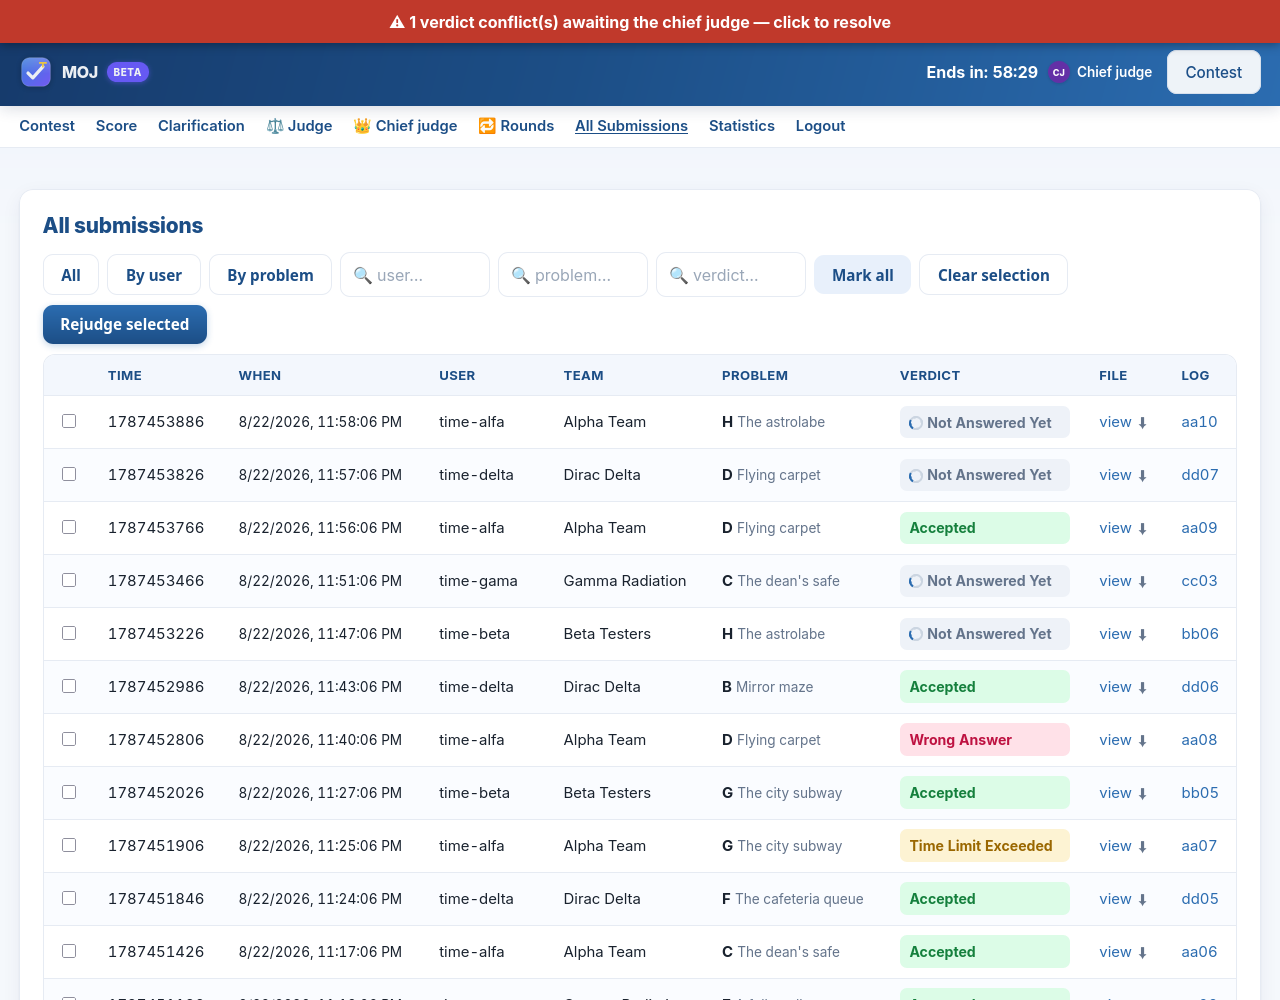
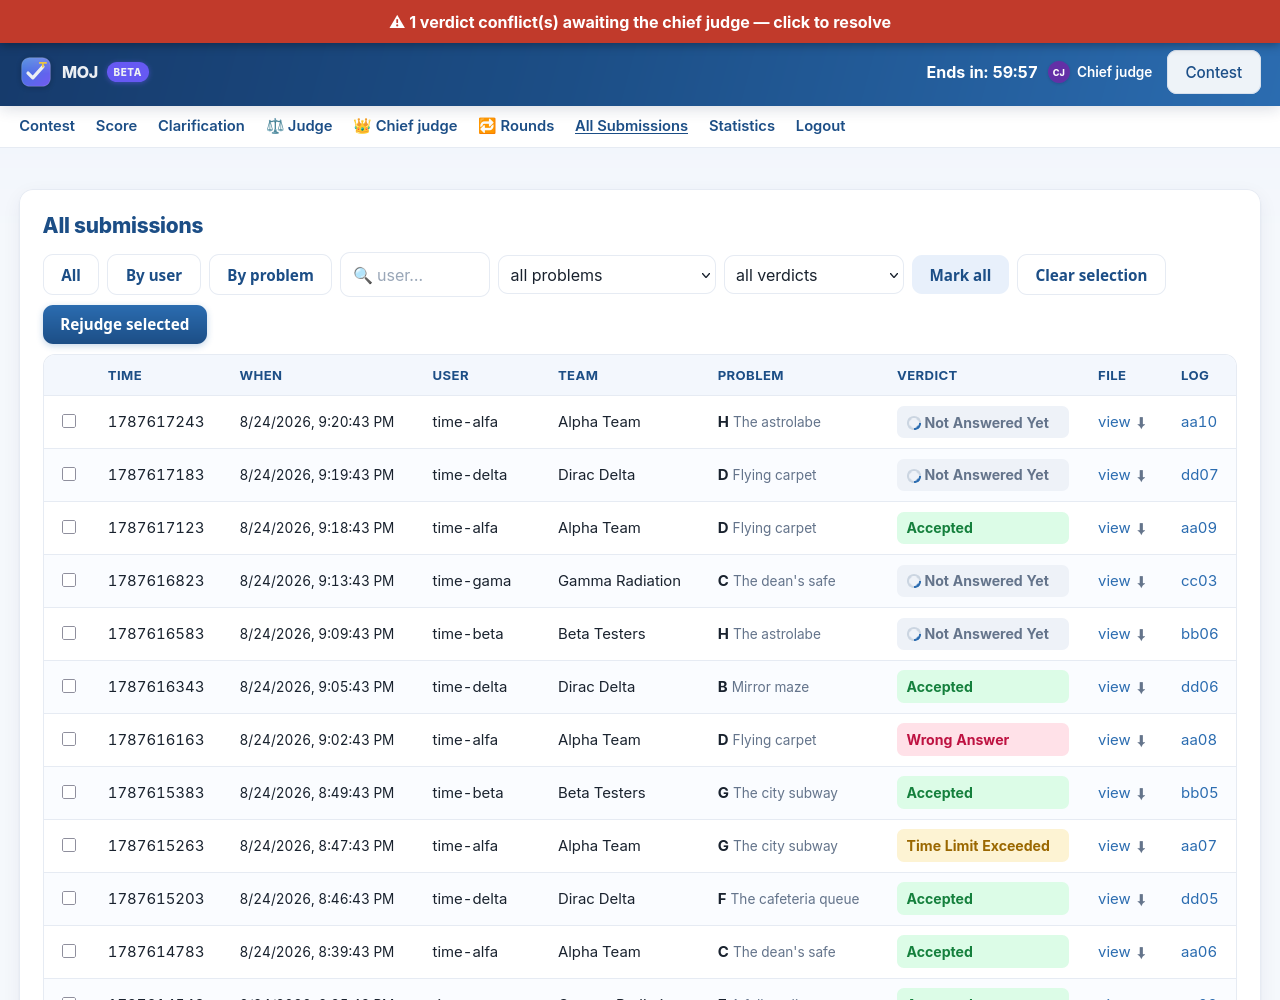
web: filtro por lista nas submissões, e o log volta a rolar até o caso
Dois relatos de juiz, os dois pequenos e os dois reais.

1) "quando você filtra por problema, digitar a letra dá match com todos os
   títulos que têm essa letra". O filtro casava com `includes` contra o ID
   CANÔNICO DO PACOTE (`apc#soma-dos-digitos`), e o slug costuma ser o título:
   digitar "a" trazia a letra A e metade da prova. Agora problema e veredicto são
   `<select>` com casamento EXATO — o de problema sai do /contest/problems que a
   página já carregava (letra · título), o de veredicto sai dos valores que
   aparecem no feed, agrupados pelo head canônico (Accepted,100p e Accepted,PE na
   mesma opção). O usuário segue busca livre, que é nome.

2) "os quadradinhos do log eram pra scrollar até o caso de teste, mas está
   voltando pra página de submissão". O report.html do mojtools sempre esteve
   certo; quem quebrava era a exibição: `<iframe srcdoc>` herda o BASE URL do PAI,
   então `href="#test-3-in"` resolvia para a página de submissão e virava
   NAVEGAÇÃO. Estava em quatro telas porque a rotina foi copiada — e duas outras
   telas já faziam certo, com blob.

   Agora existe uma implementação só: `openHtmlReport(html)` em
   shared/submission-links.js (blob + aba + revoke). Passam por ela as seis:
   juiz/chefe/review/stats (pelo logLink), o competidor, todas as submissões, o
   treino e o cartão de calibração do editor. A prévia INLINE da fila do treino
   segue com srcdoc (não abre aba) e ganhou um "abrir em aba" ao lado.
[…]

diff --git a/web/contest/allsubmissions/allsubmissions.js b/web/contest/allsubmissions/allsubmissions.js
@@ -8,6 +8,7 @@ import { status } from '/shared/auth.js';
 import { el, verdictClass, isPending, fmtDate } from '/shared/ui.js';
 import { T } from '/shared/i18n.js';
 import { mountChrome } from '/lib/contest-chrome.js';
+import { openHtmlReport } from '/shared/submission-links.js';
 
 const qs = new URLSearchParams(location.search);
 const CONTEST = (window.__MOJ_CONTEST || qs.get('c') || '');
@@ -46,33 +47,58 @@ async function openLogAuthed(path) {
     w.document.body.append(pre); w.document.close();
   } catch { alert(T('Falha ao abrir o log.', 'Failed to open the log.')); }
 }
-// abre o report.html (auto-contido) do julgamento num iframe sandboxed (HTML/CSS sim, JS não).
+// abre o report.html do julgamento numa aba nova (openHtmlReport: blob, nunca srcdoc — é o que
+// faz as âncoras dos casos de teste rolarem em vez de navegar; ver shared/submission-links.js).
 async function openReportAuthed(path) {
   try {
     const r = await fetch('/api/v1' + path, { headers: { 'Authorization': 'Bearer ' + getToken(CONTEST) } });
-    const html = await r.text();
-    const w = window.open('', '_blank');
-    if (!w) { alert(T('Permita pop-ups para ver o report.', 'Allow pop-ups to view the report.')); return; }
-    w.document.title = 'Report'; w.document.body.style.margin = '0';
-    const ifr = w.document.createElement('iframe');
-    ifr.setAttribute('sandbox', '');
-    ifr.srcdoc = html;
-    ifr.style.cssText = 'position:fixed;inset:0;border:0;width:100%;height:100%';
-    w.document.body.append(ifr);
+    openHtmlReport(await r.text());
   } catch { alert(T('Falha ao abrir o report.', 'Failed to open the report.')); }
 }
 
 function filteredSubs() {
   const fuEl = document.getElementById('fUser'); // removido no modo anônimo
   const fu = fuEl ? fuEl.value.trim().toLowerCase() : '';
-  const fp = document.getElementById('fProblem').value.trim().toLowerCase();
-  const fv = document.getElementById('fVerdict').value.trim().toLowerCase();
+  // ⚠ Problema e veredicto casam por IGUALDADE, não por `includes`. Eram campos de texto que
+  // casavam contra o id canônico do pacote (`apc#soma-dos-digitos`), então digitar "a" trazia a
+  // letra A e metade da prova junto — relato de juiz, 2026-08-24. Hoje são listas: o valor vem
+  // da própria opção, e não há o que digitar errado. O USUÁRIO segue busca livre (é nome).
+  const fp = document.getElementById('fProblem').value;
+  const fv = document.getElementById('fVerdict').value;
   return subs.filter(s => {
     if (fu && !(s.username || '').toLowerCase().includes(fu)) return false;
-    if (fp) { const sn = shortOf(s.problem_id).toLowerCase(); if (!sn.includes(fp) && !(s.problem_id || '').toLowerCase().includes(fp)) return false; }
-    if (fv && !(s.verdict || '').toLowerCase().includes(fv)) return false;
+    if (fp && s.problem_id !== fp) return false;
+    if (fv && vHead(s.verdict) !== fv) return false;
     return true;
   });
+}
+
+// head do veredicto: `Accepted,100p` e `Accepted,PE` viram "Accepted"; `Wrong,60p. Pontos | 30 |`
+// vira "Wrong". É o mesmo corte que o `by_verdict` das métricas usa (split na vírgula/ponto).
+function vHead(v) { return String(v || '').split(',')[0].split('.')[0].trim(); }
+
+// Repovoa os dois seletores preservando a escolha atual (o feed recarrega a cada poll).
+// O de problema sai do `/contest/problems` que a página já carrega (letra + título, na ordem da
+// prova); o de veredicto, dos valores que REALMENTE aparecem no feed — assim veredicto legado
+// ou `Judge Error` entram sozinhos, sem lista fixa para manter.
+function fillFilters() {
+  const ps = document.getElementById('fProblem'), vs = document.getElementById('fVerdict');
+  if (ps) {
+    const keep = ps.value;
+    ps.innerHTML = '';
+    ps.append(el('option', { value: '' }, T('todos os problemas', 'all problems')));
+    problems.forEach(p => ps.append(el('option', { value: p.problem_id },
+      (p.short_name || p.problem_id) + (p.full_name ? ' · ' + p.full_name : ''))));
+    ps.value = keep;
+  }
+  if (vs) {
+    const keep = vs.value;
+    const vs_ = [...new Set(subs.map(s => vHead(s.verdict)).filter(Boolean))].sort();
+    vs.innerHTML = '';
+    vs.append(el('option', { value: '' }, T('todos os veredictos', 'all verdicts')));
+    vs_.forEach(v => vs.append(el('option', { value: v }, v)));
+    vs.value = keep;
+  }
 }
 
 function rowTable(items) {
@@ -155,6 +181,7 @@ async function loadSubs() {
   }
   subs = txt.split('\n').map(s => s.trim()).filter(Boolean).map(parseLine).filter(Boolean)
     .sort((a, b) => Number(b.epoch) - Number(a.epoch));
+  fillFilters();   // o feed recarrega: repovoa as listas preservando a escolha
   render();
 }
 
@@ -185,7 +212,8 @@ async function boot() {
   } catch {}
 
   document.querySelectorAll('[data-group]').forEach(btn => btn.addEventListener('click', () => { groupBy = btn.dataset.group; render(); }));
-  ['fUser', 'fProblem', 'fVerdict'].forEach(id => { const e = document.getElementById(id); if (e) e.addEventListener('input', render); });
+  const fuE = document.getElementById('fUser'); if (fuE) fuE.addEventListener('input', render);
+  ['fProblem', 'fVerdict'].forEach(id => { const e = document.getElementById(id); if (e) e.addEventListener('change', render); });
   if (FULL) {
     document.getElementById('markAll').addEventListener('click', () => { filteredSubs().forEach(s => selected.add(s.submission_id)); render(); });
     const clearBtn = el('button', { class: 'btn ghost', onclick: () => { selected.clear(); render(); } }, T('Desmarcar todos', 'Clear selection'));

diff --git a/web/shared/submission-links.js b/web/shared/submission-links.js
@@ -18,16 +18,28 @@ export async function downloadAuthed(contest, path, filename) {
   } catch { alert(T('Falha ao baixar.', 'Download failed.')); }
 }
 
-// abre o report HTML autenticado numa aba nova, isolado num <iframe sandbox> (sem scripts).
+// openHtmlReport(html) — abre um relatório HTML AUTO-CONTIDO (o report.html do mojtools, o de
+// calibração, o de test-run) numa aba nova, por **blob URL**.
+//
+// ⚠ NUNCA use `<iframe srcdoc>` para isto. Um srcdoc tem URL `about:srcdoc` e herda o BASE URL do
+// PAI: um `href="#test-3-in"` resolve para "<a-página-de-onde-você-veio>#test-3-in" e vira
+// NAVEGAÇÃO, não rolagem. Era o que fazia os quadradinhos do log "voltarem para a página de
+// submissão" (relato de juiz, 2026-08-24) — em quatro telas, porque a rotina foi copiada. Com
+// blob o documento ganha URL própria e a âncora volta a ser âncora.
+// Isolar não é problema: o report é gerado sem JS e traz `default-src 'none'` no próprio <head>.
+export function openHtmlReport(html) {
+  const url = URL.createObjectURL(new Blob([html], { type: 'text/html' }));
+  const w = window.open(url, '_blank');
+  if (!w) { alert(T('Permita pop-ups para ver o relatório.', 'Allow pop-ups to view the report.')); URL.revokeObjectURL(url); return null; }
+  setTimeout(() => URL.revokeObjectURL(url), 60000);
+  return w;
+}
+
+// abre o report HTML AUTENTICADO (busca com Bearer — o nginx não recebe o token por querystring).
 export async function openReportAuthed(contest, path) {
   try {
     const r = await fetch('/api/v1' + path, { headers: { Authorization: 'Bearer ' + getToken(contest) } });
-    const html = await r.text();
-    const w = window.open('', '_blank');
-    if (!w) { alert(T('Permita pop-ups para ver o log.', 'Allow pop-ups to view the log.')); return; }
-    w.document.title = 'Log'; w.document.body.style.margin = '0';
-    const ifr = w.document.createElement('iframe'); ifr.setAttribute('sandbox', ''); ifr.srcdoc = html;
-    ifr.style.cssText = 'position:fixed;inset:0;border:0;width:100%;height:100%'; w.document.body.append(ifr);
+    openHtmlReport(await r.text());
   } catch { alert(T('Falha ao abrir o log.', 'Failed to open the log.')); }
 }
 

diff --git a/web/contest/contest.js b/web/contest/contest.js
@@ -7,6 +7,7 @@ import { createEditor } from '/shared/editor.js';
 import { LANGUAGES, DEFAULT_SUBMIT_LANGUAGES, langById, extCanon } from '/shared/languages.js';
 import { T, setLang, getLang } from '/shared/i18n.js';
 import { navLabel } from '/shared/nav-i18n.js';
+import { openHtmlReport } from '/shared/submission-links.js';
 import { balloonColorHex, balloonSVG, balloonEdge, balloonTint } from '/contest/score/score-colors.js';
 
 const qs = new URLSearchParams(location.search);
@@ -131,21 +132,13 @@ async function openLogAuthed(path) {
   } catch { alert(T('Falha ao abrir o log.', 'Failed to open log.')); }
 }
 
-// abre o report.html (auto-contido) do julgamento num iframe sandboxed: renderiza
-// HTML/CSS mas bloqueia JS (defesa em profundidade — o conteúdo já é escapado na origem).
+// abre o report.html do julgamento numa aba nova (openHtmlReport: blob, nunca srcdoc — é o que
+// faz as âncoras dos casos de teste rolarem em vez de navegar; ver shared/submission-links.js).
 async function openReportAuthed(path) {
   try {
     const r = await fetch('/api/v1' + path, { headers: { 'Authorization': 'Bearer ' + getToken(CONTEST) } });
-    const html = await r.text();
-    const w = window.open('', '_blank');
-    if (!w) { alert(T('Permita pop-ups para ver o report.', 'Allow pop-ups to view the report.')); return; }
-    w.document.title = 'Report'; w.document.body.style.margin = '0';
-    const ifr = w.document.createElement('iframe');
-    ifr.setAttribute('sandbox', '');
-    ifr.srcdoc = html;
-    ifr.style.cssText = 'position:fixed;inset:0;border:0;width:100%;height:100%';
-    w.document.body.append(ifr);
-  } catch { alert(T('Falha ao abrir o report.', 'Failed to open report.')); }
+    openHtmlReport(await r.text());
+  } catch { alert(T('Falha ao abrir o report.', 'Failed to open the report.')); }
 }
 
 // ============================================================================

diff --git a/web/treino/admin/admin.js b/web/treino/admin/admin.js
@@ -14,6 +14,7 @@ import { apiGet, apiPost, getToken } from '/shared/api.js';
 import { status } from '/shared/auth.js';
 import { el, fmtDate, avatarEl, renderAuthArea } from '/shared/ui.js';
 import { barChart, hBarChart, lineChart, heatmap, heatmapGrid } from '/lib/charts.js';
+import { openHtmlReport } from '/shared/submission-links.js';
 import { T } from '/shared/i18n.js';
 
 const CONTEST = 'treino';
@@ -503,8 +504,14 @@ function makeQueueTab() {
                       T('estado: ', 'state: ') + stLabel(d.state)
                       + T(' · fonte: ', ' · source: ') + (d.has_source ? d.source_bytes + ' B' : T('AUSENTE', 'MISSING'))
                       + T(' · mojlog: ', ' · mojlog: ') + (d.mojlog_bytes ? d.mojlog_bytes + ' B' : T('não existe', 'none'))),
+                    // prévia embutida (sandbox: sem JS). ⚠ as âncoras dos casos de teste NÃO
+                    // rolam aqui — num srcdoc o `#alvo` resolve contra a URL do pai; para isso
+                    // existe o "abrir em aba", que usa blob (shared/submission-links.js).
                     d.mojlog ? el('iframe', { style: 'width:100%;height:16rem;border:1px solid var(--line);border-radius:8px;background:#fff',
-                      sandbox: '', srcdoc: d.mojlog }) : '');
+                      sandbox: '', srcdoc: d.mojlog }) : '',
+                    d.mojlog ? el('div', { class: 'small', style: 'margin-top:.25rem' },
+                      el('a', { href: '#', onclick: (ev) => { ev.preventDefault(); openHtmlReport(d.mojlog); } },
+                        T('abrir em aba (com as âncoras funcionando) →', 'open in a tab (anchors working) →'))) : '');
                   logBox.style.display = '';
                 } catch (e) { msg.textContent = e.message || T('falha', 'failed'); }
               } }, '📜'),

diff --git a/web/treino/problema/problema.js b/web/treino/problema/problema.js
@@ -4,6 +4,7 @@ import { fileToBase64, textToBase64, status } from '/shared/auth.js';
 import { el, verdictClass, isPending, fmtDate, renderAuthArea, resumoText } from '/shared/ui.js';
 import { createEditor } from '/shared/editor.js';
 import { LANGUAGES, DEFAULT_SUBMIT_LANGUAGES, langById, extCanon } from '/shared/languages.js';
+import { openHtmlReport } from '/shared/submission-links.js';
 import { T } from '/shared/i18n.js';
 
 const CONTEST = 'treino';
@@ -143,18 +144,12 @@ async function downloadAuthed(path, filename) {
   document.body.append(a); a.click(); a.remove();
 }
 
-// abre o report.html (auto-contido, SEM JS — conteúdo escapado na origem + CSP no <head>)
-// numa NOVA ABA via blob URL. Não usa iframe sandboxed: o sandbox bloqueia a navegação por
-// âncora (#test-...), por isso os links "não faziam nada". Como página de verdade, as âncoras
-// internas funcionam nativamente.
+// abre o report.html do julgamento numa aba nova (openHtmlReport: blob, nunca srcdoc — ver
+// shared/submission-links.js; é o que faz as âncoras dos casos de teste rolarem).
 async function openReportAuthed(path) {
   try {
     const r = await fetch('/api/v1' + path, { headers: { 'Authorization': 'Bearer ' + getToken(CONTEST) } });
-    const html = await r.text();
-    const url = URL.createObjectURL(new Blob([html], { type: 'text/html' }));
-    const w = window.open(url, '_blank');
-    if (!w) { alert(T('Permita pop-ups para ver o report.', 'Allow pop-ups to view the report.')); URL.revokeObjectURL(url); return; }
-    setTimeout(() => URL.revokeObjectURL(url), 60000);
+    openHtmlReport(await r.text());
   } catch { alert(T('Falha ao abrir o report.', 'Failed to open the report.')); }
 }
 

diff --git a/web/contest/ajuda/judge.html b/web/contest/ajuda/judge.html
@@ -190,10 +190,11 @@
             links para o arquivo e o log. Não há coluna de usuário — e isso é deliberado.
           </figcaption>
         </figure>
-        <p data-en-html="This is the panoramic view of the contest: useful for spotting a problem nobody is solving, a wave of <i>Compilation Error</i> in the first minutes, or a language behaving oddly. The filters at the top cut by problem and by verdict.">
+        <p data-en-html="This is the panoramic view of the contest: useful for spotting a problem nobody is solving, a wave of <i>Compilation Error</i> in the first minutes, or a language behaving oddly. The two lists at the top cut by problem and by verdict — pick from the list, there is nothing to type.">
           É a visão panorâmica da prova: serve para perceber um problema que ninguém resolve, uma
           onda de <i>Compilation Error</i> nos primeiros minutos, ou uma linguagem se comportando
-          de forma estranha. Os filtros do topo recortam por problema e por veredicto.
+          de forma estranha. As duas listas do topo recortam por problema e por veredicto —
+          você escolhe na lista, não tem o que digitar.
         </p>
         <div class="tip" data-en-html="For a judge the list comes <b>anonymous</b> and sorted by time — the user and team columns simply do not exist, and the &quot;by user&quot; grouping is gone. The chronological order is part of the protection: grouped by team, the mere sequence would give away who is who.">
           Para o juiz a lista vem <b>anônima</b> e ordenada por horário — as colunas de usuário e

diff --git a/web/problemas/editar.js b/web/problemas/editar.js
@@ -7,6 +7,7 @@ import { status, fileToBase64, textToBase64 } from '/shared/auth.js';
 import { el, renderAuthArea, fmtDate } from '/shared/ui.js';
 import { createEditor } from '/shared/editor.js';
 import { makeLangPicker } from '/shared/contest-config/lang-picker.js';
+import { openHtmlReport } from '/shared/submission-links.js';
 import { T } from '/shared/i18n.js';
 
 const CONTEST = 'treino';
@@ -702,8 +703,7 @@ async function openCalibReport(host, name) {
     const r = await fetch('/api/v1/problems/calib-report?id=' + encodeURIComponent(ID) + '&host=' + encodeURIComponent(host) + '&name=' + encodeURIComponent(name),
       { headers: { Authorization: 'Bearer ' + getToken(CONTEST) } });
     if (!r.ok) throw new Error('HTTP ' + r.status);
-    const url = URL.createObjectURL(new Blob([await r.text()], { type: 'text/html' }));
-    window.open(url, '_blank'); setTimeout(() => URL.revokeObjectURL(url), 60000);
+    openHtmlReport(await r.text());   // blob, nunca srcdoc — ver shared/submission-links.js
   } catch (e) { setMsg(T('Falha ao abrir o report: ', 'Failed to open the report: ') + e.message, 'error'); }
 }
 // nome amigável das linguagens (as chaves de TL são códigos curtos do juiz: c, cpp, py, …)

diff --git a/web/contest/rounds/rounds.js b/web/contest/rounds/rounds.js
@@ -72,7 +72,17 @@ async function openViewer(round, file) {
       const d = frame.contentDocument; if (!d) return;
       d.querySelectorAll('a[href]').forEach((a) => {
         const href = a.getAttribute('href') || '';
-        if (/^(https?:|mailto:|#)/.test(href)) { a.target = '_blank'; return; }
+        // ⚠ FRAGMENTO NÃO É LINK EXTERNO. Num `<iframe srcdoc>` o `#alvo` resolve contra a URL do
+        // PAI, então com `target=_blank` ele abria uma ABA com a página do app em vez de rolar
+        // até a seção (irmão do bug das âncoras do log — ver shared/submission-links.js).
+        if (href.startsWith('#')) {
+          a.addEventListener('click', (ev) => { ev.preventDefault();
+            const alvo = d.getElementById(href.slice(1)) || d.getElementsByName(href.slice(1))[0];
+            if (alvo) alvo.scrollIntoView({ block: 'start' });
+          });
+          return;
+        }
+        if (/^(https?:|mailto:)/.test(href)) { a.target = '_blank'; return; }
         a.addEventListener('click', (ev) => { ev.preventDefault(); show(resolveRel(f, href)); });
       });
     };

diff --git a/web/contest/allsubmissions/index.html b/web/contest/allsubmissions/index.html
@@ -37,8 +37,8 @@
         <button class="btn ghost" data-group="user" data-en="By user">Por usuário</button>
         <button class="btn ghost" data-group="problem" data-en="By problem">Por problema</button>
         <input id="fUser" placeholder="🔍 usuário…" data-en-ph="🔍 user…" style="max-width:150px">
-        <input id="fProblem" placeholder="🔍 problema…" data-en-ph="🔍 problem…" style="max-width:150px">
-        <input id="fVerdict" placeholder="🔍 veredicto…" data-en-ph="🔍 verdict…" style="max-width:150px">
+        <select id="fProblem" style="max-width:230px"></select>
+        <select id="fVerdict" style="max-width:180px"></select>
         <button class="btn secondary" id="markAll" data-en="Mark all">Marcar todos</button>
         <button class="btn" id="rejudgeBtn" data-en="Rejudge selected">Rejulgar selecionados</button>
         <span class="submit-steps" id="rejudgeMsg"></span>

diff --git a/CLAUDE.md b/CLAUDE.md
@@ -280,6 +280,16 @@ Deploy: `docs/DEPLOY.md`. Docs em HTML: `bash docs/build-html.sh`.
   cabeçalho ficava à esquerda e o número a meia tela dele, parecendo pertencer à coluna
   vizinha. Tabela de POUCAS colunas ganha `narrow` (relatório) p/ não esticar — e nela o
   `.n` volta a `width:auto`, senão a porcentagem de célula infla a tabela toda.
+- **RELATÓRIO HTML ABRE POR `blob:`, NUNCA EM `<iframe srcdoc>`** (2026-08-24). Um srcdoc tem URL
+  `about:srcdoc` e herda o **base URL do PAI**: `href="#test-3-in"` resolve para
+  `<a-página-de-onde-você-veio>#test-3-in` e vira **navegação**, não rolagem. Era o que fazia os
+  quadradinhos do `report.html` "voltarem para a página de submissão" (relato de juiz) — em
+  QUATRO telas, porque a rotina foi copiada. O `report.html` do mojtools sempre esteve certo
+  (`id=`/`href=` pelo mesmo `slugify`, sem `<base>`, sem JS). Fonte única:
+  **`openHtmlReport(html)`** em `web/shared/submission-links.js` (blob + `window.open` + revoke em
+  60 s); isolar não é motivo para srcdoc — o report traz `default-src 'none'` no próprio `<head>`.
+  Embed INLINE (a prévia do mojlog na fila do treino, o site da rodada arquivada) pode seguir com
+  srcdoc, e é a allowlist do inventário executável em `smoke-handlers.sh`.
 - **`el()` mora em `web/shared/dom.js`** (sem dependência de rede) e o `ui.js` re-exporta —
   é o que permite reusar renderizadores no relatório offline. Importar de `/shared/ui.js`
   segue valendo p/ os ~79 arquivos que já faziam isso.
